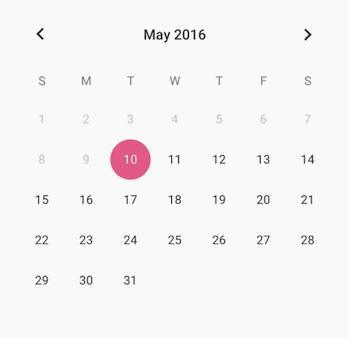
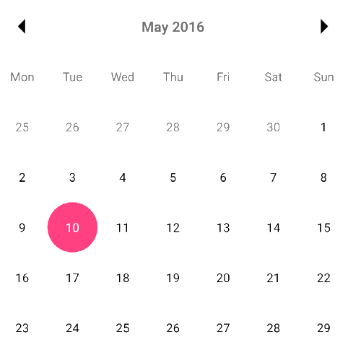
sostituito menu normale con tabbed menu, cambiati timepicker e datepicker in android

diff --git a/app/scripts/models/ui_phone_control_.js b/app/scripts/models/ui_phone_control_.js
@@ -1,5 +1,10 @@
 App.UiPhoneControl = App.UiControl.extend({
 
+  //Override
+  /*--------------------------------------------------------------*/
+  posY:             DS.attr('number', {defaultValue: 96}),
+  /*--------------------------------------------------------------*/
+
   viewController: DS.belongsTo('viewController'),
   parentContainer: DS.belongsTo('container', {inverse: 'uiPhoneControls'}),
 
@@ -46,7 +51,20 @@ App.UiPhoneControl = App.UiControl.extend({
         return 0;
       }
       else {
-        // Offset of top bar
+        // Check tab bar for menu in Android
+        var isAndroid = this.get('viewController.application.smartphone.platform') == 'android';
+        var currentViewControllerIsMenu = false;
+        var viewControllerName = this.get('viewController.name');
+        var menuItems = this.get('viewController.application.menu.menuItems');
+        menuItems.forEach(function(menuItem, index) {
+          if(viewControllerName == menuItem.get('name')) {
+            currentViewControllerIsMenu = true;
+          }
+        });
+        // Offset from tab bar for menu in Android
+        if (isAndroid && currentViewControllerIsMenu) {
+          return this.get('viewController.application.smartphone.viewTop') + 48;
+        }
         return this.get('viewController.application.smartphone.viewTop');
       }
 
@@ -74,7 +92,7 @@ App.UiPhoneControl = App.UiControl.extend({
       }
       else {
         // Offset of top bar
-        return parseFloat(this.get('posY')) + this.get('viewController.application.smartphone.viewTop');
+        return  parseFloat(this.get('posY')) + this.get('viewController.application.smartphone.viewTop');
       }
 
     }
@@ -87,6 +105,9 @@ App.UiPhoneControl = App.UiControl.extend({
     'alignParentBottom',
     'below.bottom',
     'viewController.application.smartphone.viewTop',
+    'viewController.application.smartphone.platform',
+    'viewController.application.menu.menuItems',
+    'viewController.name',
     'above',
     'bottom'),
 
@@ -101,11 +122,19 @@ App.UiPhoneControl = App.UiControl.extend({
       }
       else {
         // Check tab bar for menu in iOS
-        if (this.get('viewController.application.smartphone.platform') == 'ios' &&
-          this.get('viewController.application.menu.menuItems.length') > 0) {
+        var isIOS = this.get('viewController.application.smartphone.platform') == 'ios';
+        var currentViewControllerIsMenu = false;
+        var viewControllerName = this.get('viewController.name');
+        var menuItems = this.get('viewController.application.menu.menuItems');
+        menuItems.forEach(function(menuItem, index) {
+          if(viewControllerName == menuItem.get('name')) {
+            currentViewControllerIsMenu = true;
+          }
+        });
+        // Offset from tab bar for menu in iOS
+        if (isIOS && currentViewControllerIsMenu) {
           return this.get('viewController.application.smartphone.viewBottom') - 48;
         }
-
         return this.get('viewController.application.smartphone.viewBottom');
       }
 
@@ -123,8 +152,11 @@ App.UiPhoneControl = App.UiControl.extend({
     'outerHeight',
     'parentContainer.height',
     'above.top',
-    'viewController.application.smartphone.viewBottom',
-    'viewController.application.menu.menuItems.length'),
+    'viewController.name',
+    'viewController.application.smartphone.platform',
+    'viewController.application.menu.menuItems',
+    'viewController.application.smartphone.viewBottom'
+  ),
 
   start: function() {
     if (this.get('alignStart')) {

diff --git a/app/styles/menu-style.scss b/app/styles/menu-style.scss
@@ -6,7 +6,6 @@
 .app-menu.ios {
   position: absolute;
   display: flex;
-  flex-flow: row no-wrap;
   justify-content: space-around;
   align-content: center;
   align-items: flex-end;
@@ -16,6 +15,32 @@
   height: 48px; // +1 border top
   border-top: solid 1px rgb(247,247,247);
   bottom: 0;
+}
+
+.Nexus6P .app-menu {
+  position: absolute;
+  display: flex;
+  justify-content: space-around;
+  align-content: center;
+  align-items: flex-end;
+  background-color: #3F51B5;
+  width: 100%;
+  //(px = points iphone)
+  height: 48px; // +1 border top
+  top: 93px;
+}
+
+.Nexus5 .app-menu {
+  position: absolute;
+  display: flex;
+  justify-content: space-around;
+  align-content: center;
+  align-items: flex-end;
+  background-color: #3F51B5;
+  width: 100%;
+  //(px = points iphone)
+  height: 48px; // +1 border top
+  top: 79px;
 }
 
 .app-menu-item.ios {
@@ -29,8 +54,31 @@
   cursor:pointer;
 }
 
-/*============ ANDROID ============*/
+.app-menu-item.android {
+  position: relative;
+  color: #ffffff;
+  text-transform : uppercase;
+  flex: 0 1 auto;
+  align-self: auto;
+  min-width: 0;
+  min-height: auto;
+  font-size: 14px;
+  //width: 100%;
+  text-align: center;
+  padding-bottom: 12px;
+  border-bottom: 2px solid #3F51B5;
+  cursor:pointer;
+  //overflow: hidden;
+  //margin: 0px 4px;
+}
 
+.app-menu-item.android .control-content {
+    text-overflow: ellipsis;
+    overflow: hidden;
+}
+
+/*============ ANDROID ============*/
+/*
 .app-menu.android:before {
   content: $fa-var-ellipsis-v;
   font-family: FontAwesome;
@@ -78,3 +126,4 @@
 .app-menu-item.android:hover {
   display: block;
 }
+*/

diff --git a/app/scripts/views/menu_view.js b/app/scripts/views/menu_view.js
@@ -7,18 +7,26 @@ App.MenuView = Ember.View.extend({
   attributeBindings: ['style'],
 
   style: function() {
-    var isAndroid = this.get('controller.controllers.editor.smartphone.platform') == 'android';
-    var isLauncher = this.get('context.launcher') == true;
+    var currentViewControllerIsMenu = false;
+    var viewControllerName = this.get('context.name');
+    var menuItems = this.get('context.menu.menuItems');
+    menuItems.forEach(function(menuItem) {
+      var menuItemDestination = menuItem.get('navigation.destination.name');
+      if(viewControllerName == menuItemDestination) {
+        currentViewControllerIsMenu = true;
+      }
+    });
+
     style = "";
 
-    if(isAndroid && !isLauncher) {
+    if(!currentViewControllerIsMenu) {
         style += "display:none";
     }
 
     return style;
   }.property(
-    'controller.controllers.editor.smartphone.platform',
-    'context.launcher'
+    'context.name',
+    'context.menu.menuItems'
   )
 
 });

diff --git a/app/scripts/views/menu_item_view.js b/app/scripts/views/menu_item_view.js
@@ -2,6 +2,27 @@ App.MenuItemView = Ember.View.extend({
   tagName: 'div',
   classNames: ['app-menu-item'],
   classNameBindings: ['controller.controllers.editor.smartphone.platform'],
-  templateName: 'views/menu_item_view'
+  templateName: 'views/menu_item_view',
+
+  attributeBindings: ['style'],
+
+  style: function() {
+    var isAndroid = this.get('controller.controllers.editor.smartphone.platform') == 'android';
+    var menuItemDestination = this.get('context.navigation.destination.name');
+    var viewControllerName = this.get('controller.name');
+    var currentViewControllerIsMenuItem = menuItemDestination == viewControllerName;
+
+    style = "";
+
+    if(isAndroid && currentViewControllerIsMenuItem) {
+        style += "border-bottom: 2px solid #FF4081";
+    }
+
+    return style;
+  }.property(
+    'controller.controllers.editor.smartphone.platform',
+    'context.navigation.destination.name',
+    'controller.name'
+  )
 
 });

diff --git a/app/styles/android-style.scss b/app/styles/android-style.scss
@@ -170,8 +170,8 @@
 	.control-edit-text .control-content {
 	  align-self: center;
 	  overflow: hidden;
-	  white-space: nowrap;
-	  text-overflow: ellipsis;
+		//white-space: nowrap;
+	  //text-overflow: ellipsis;
 	}
 
 	.control-edit-text .control-content .placeholder {
@@ -382,9 +382,10 @@
 
 	.control-datepicker .datepicker-image {
 	  width: 348px;
-	  height:338px;
+	  height:358px;
 	  background: url('../img/ui_phone_controls/android/datepicker_big.png');
 	  background-size: 100%;
+		background-repeat: round;
 	  margin : auto;
 	}
 
@@ -395,6 +396,7 @@
 	  height:346px;
 	  background: url('../img/ui_phone_controls/android/timepicker_big.png');
 	  background-size: 100%;
+		background-repeat : round;
 	  margin : auto;
 	}
 
@@ -434,6 +436,7 @@
 	  height : 50px;
 	  margin : 32px 0px 8px 0px;
 	  padding : 0px 4px;
+		font-size: 14px;
 	  text-transform: uppercase;
 	}
 

diff --git a/app/styles/device-style.scss b/app/styles/device-style.scss
@@ -154,7 +154,7 @@
 }
 
 .Nexus6P {
-
+  /*
 	.app-menu.android {
 	  top: 33px;
 	}
@@ -167,7 +167,7 @@
 	.app-menu-item.android {
 	  padding: 20px;
 	}
-
+  */
 	.action-bar {
 	  top: 29px;
 	  height: 64px;
@@ -218,6 +218,7 @@
 
 .Nexus5 {
 
+  /*
 	.app-menu.android {
 	  top: 28px;
 	}
@@ -230,6 +231,7 @@
 	.app-menu-item.android {
 	  padding: 16px;
 	}
+  */
 
 	.action-bar {
 	  top: 23px;

diff --git a/app/styles/ios-style.scss b/app/styles/ios-style.scss
@@ -337,6 +337,7 @@
     height:216px;
     background: url('../img/ui_phone_controls/ios/datepicker.png');
     background-size: 100%;
+    background-repeat: round;
     margin : auto;
   }
 
@@ -347,6 +348,7 @@
     height:216px;
     background: url('../img/ui_phone_controls/ios/timepicker.png');
     background-size: 100%;
+    background-repeat : round;
     margin : auto;
   }
 

diff --git a/app/scripts/models/ui_phone_control_datepicker.js b/app/scripts/models/ui_phone_control_datepicker.js
@@ -2,7 +2,7 @@ App.Datepicker = App.UiPhoneControl.extend({
   name:       DS.attr('string', {defaultValue: 'Datepicker'}),
 
   width:      DS.attr('number', {defaultValue: 348}),
-  height:     DS.attr('number', {defaultValue: 338}),
+  height:     DS.attr('number', {defaultValue: 358}),
 
   xmlName:    'datepickers',
 
